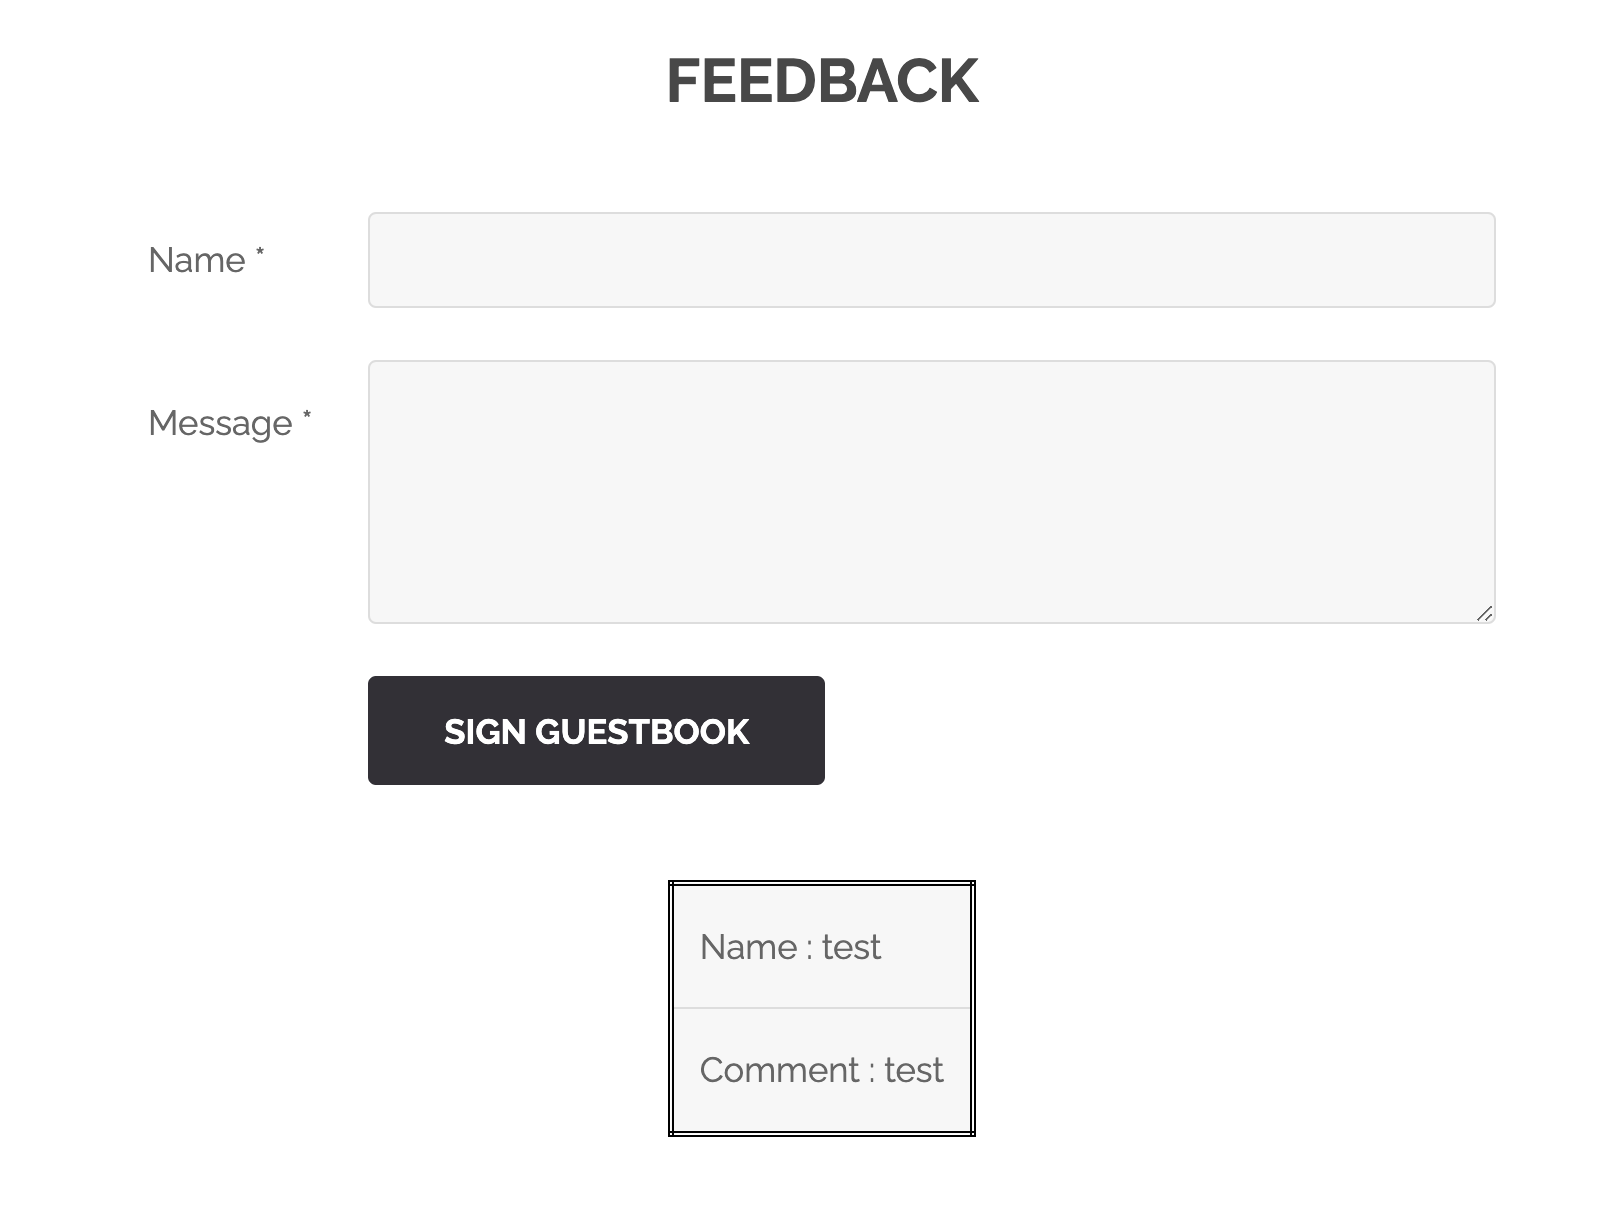
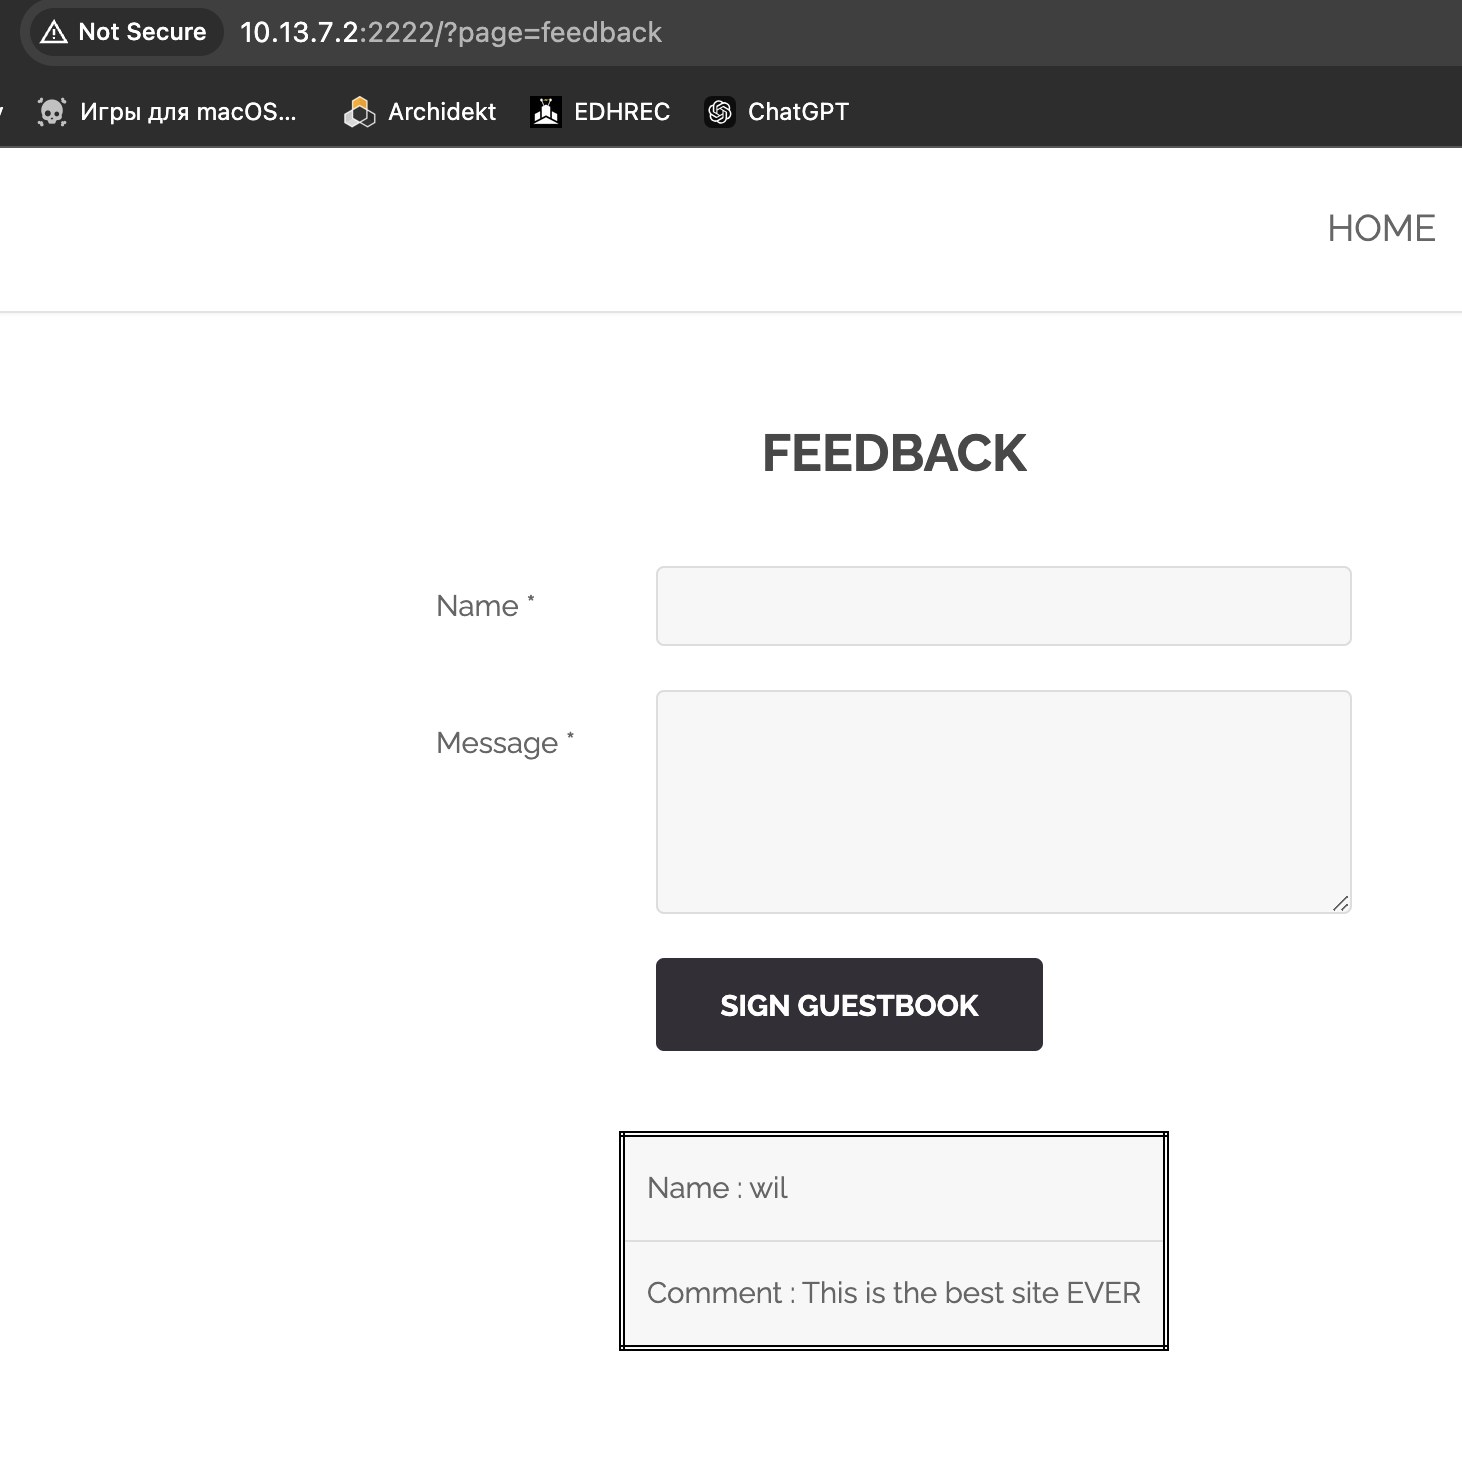
4 left to document

diff --git a/feedback_empty_form/Ressources/README.md b/feedback_empty_form/Ressources/README.md
@@ -1,7 +1,52 @@
 ## FEEDBACK EMPTY FORM
 
-At the bottom of the page there is a feedback button that redirects you to a feedback form where you can submit, well, your feedback.
+At the bottom of the webpage there is a big button with a text that says "LEAVE A FEEDBACK".</br>
+<img src="./imgs/1.png"></br>
+If you click there you will be moved to ["localhost:2222/?page=feedback](#localhost:2222/?page=feedback).</br>
+<img src="./imgs/2.png"></br>
+If you type in a <code>name</code> and a <code>message</code> and click on the button <i>"SIGN GUESTBOOK"</i> a commentary will be submitted to the feedback page.</br>
+<img src="./imgs/3.png"></br>
+This page contains multiple errors:</br>
+# 1'st: Message Empty Feedback
+<img src="./imgs/4.png"></br>
+When you submit the form the function validate_form() is called.</br>
+<img src="./imgs/5.png"></br>
+This is the function that's called. If you take a closer look you can see that there is a typo.</br>
+The message html input tag has the name attribute set to <code>mtxtMessage</code> and when the value that is checked in the code is <code>mtxMessage</code>. So it does no check if that value is empty and you can upload a feedback with no message.</br>
+<img src="./imgs/6.png"></br>
+
+# 2'st: checkForm???
+If you check the html code I showed you before you can see that the <code>btnSign</code> input calls the <code>checkForm()</code> function.</br>
+If you try to find that function you wont find it, and trust me, I've looked for it. But in case you dont I can prove it other way, listen, if just click the <i>"SIGN GUESTBOOK"</i> button and move to the console you will be able to see this:</br>
+<img src="./imgs/7.png"></br>
+
+# 3'rd: XSS
+
+## What is XSS
+[XSS](#https://owasp.org/www-community/attacks/xss/) stands for Cross Site Scripting. It consists on injecting malicious code in a website, usually in the form of a browser side script.</br>
 </br>
-<img src="./imgs/feedback_empty_form/1.png">
-</br>
-If you try to submit your feedback you can see that it gets uploaded and you can actually see it.
+This vulnerability is supossed to be about that, not about the other 2 points. What this vulnerability is supossed to be is one in wich you can script, the issue it has is that it's broken. So inputs like:</br>
+<table>
+<th>
+<code>a</code></br>
+</th>
+<th>
+<code>b</code></br>
+</th>
+<th>
+<code>script</code></br>
+</th>
+</table></br>
+give you the flag. But if you try submitting html code and inspect the request and see comment that's left in the page, you'll see that html/php code gets parsed.</br>
+My guess is that the word <i>"script"</i> serves as a <i>"generic script"</i> so you cannot break the page.</br>
+<img src="./imgs/8.png"></br>
+<img src="./imgs/holy_moly.gif"></br>
+
+# 4'rt: Extra
+
+You can also inspect element and change the html so you can submit a bigger comment or a bigger name. If you do you will see this: </br>
+<img src="./imgs/extra_1.png"></br>
+You change the <i><code>maxlenght</i></code> attribute on the <i><code>input</code></i> named <i><code>txtName</i></code> and the <i><code>maxlenght</i></code> in the <i><code>textarea</i></code> named <i><code>mtxtMessage</i></code>
+<img src="./imgs/extra_2.png"></br>
+
+

diff --git a/cookie_admin_true/Ressources/README.md b/cookie_admin_true/Ressources/README.md
@@ -1,9 +1,17 @@
-## COOKIE ADMIN TRUE
+# COOKIE ADMIN TRUE
 
-This one is also easy but not as easy as some others.
-Whenever you visit a page, data is stored about you, in order to access that data you need to inspect element and head over to the Applications window. Once there you need click on the cookies dropdown and select whatever is there.</br>
-//TODO explanation about cookies and which kind of cookie are we using.</br>
-<img src="./imgs/1.png">
-</br>
-Once you find the cookie you can see that it contains some values, the one we are fixing on is the "value" one. Inside it there is a random array of numbers and letters, usually when you find this that means that we are looking at some hashed data, so we have to convert it back to something we can actually read.</br>
-To achive this we first have to find which ones are the most used hashes and then use a converter. We first tried with a [MD5 converter](https://md5.gromweb.com/) and got it right, it displayed "false" so we wrote true and hashed it back with an [online hash webapp](https://www.md5hashgenerator.com/)
+
+## What is a cookie??
+
+<code>cookie :</code> cookies are small data packages created by a webserver and stored in the users device. They are usually used in order to store store <i>stateful</i> information about the user.</br></br>
+The easiest way of seeing this is with a shopping cart. You can go to amazon, without being logged in and add things to your shopping cart. If you were to leave the page and come back later your cart would still be containing the items you added.</br></br>
+
+## What about this page's cookies
+
+If you were to inspect this page's cookies you would see that there is only one named <code>I_am_admin</code> and its value is a random string.</br>
+<img src="./imgs/1.png"></br>
+When you see a random string like that the first thing that crosses your mind is that it has to be a encrypted string that contains something, so the next step should be decrypting the string.</br>
+The usual suspects tend to be MD5, SHA1, SHA256...</br>
+If we use an [MD5 converter](#https://md5.gromweb.com/) we can see that the value of the cookie is actually the string "false" encrypted. So if we[encrypt the string "true" with MD5](#https://10015.io/tools/md5-encrypt-decrypt) and refresh we should get the cookie.</br>
+<img src="./imgs/2.png"></br>
+<img src="./imgs/3.png"></br>

diff --git a/hidden_routes/Ressource/README.md b/hidden_routes/Ressource/README.md
@@ -1,11 +1,24 @@
-## HIDDEN ROUTES
+# HIDDEN ROUTES
 
-One of the first things you try when inspecting this project is the robots.txt route.
-Upon closer inspection there are 2 routes:
-</br>
-<img src="./imgs/1.png">
-If you try to access the .hidden directory you will find this:
-<img src="./imgs/2.png">
-If you keep diging you will find that every random named folder contains more random named folder that lead up to a README file. When I found this I thought of making a python script that traverses every folder and tries to see if a README contains the flag.
-If you let the script run for a couple of minits you will end up with the flag
-<img src="./imgs/3.png">
+Usually one of the first things people do when trying to break into a page is go to the route /robots.txt.</br>
+
+## What is the robots.txt route???
+
+The [robots.txt](#https://en.wikipedia.org/wiki/Robots.txt) file is a filename implemented for the Robots Exclusion Protocol, a standard used by websites to indicate web crawlers and other web robots which parts of the website are they allowed to visit.</br>
+That's why its usefull, because it gives you a list of routes.</br>
+
+## Our robots.txt
+
+If you take a look at this page's robots.txt you will find this:</br>
+<img src="./imgs/1.png"></br>
+You may think that the routes <code>/whatever</code> and <code>.hidden</code> are Disallowed and you cannot enter them. But the Disallow directive is purely advisory, and so are others.</br>
+But you might think otherwise if your VM's ports are forwarded, since the URL <code>10.13.8.6:222/whatever</code> or <code>10.13.8.6:222/.hidden</code> redirect you to <code>10.13.8.6/.hidden/</code> and <code>10.13.8/whatever/</code> respectivily, and you wont be able to see the page.</br>
+
+
+## .hidden directory
+
+If you go to <code>10.13.8.6:2222/.hidden/</code> you will find this:</br>
+<img src="./imgs/2.png"></br>
+If you move across directories you will end up in a directory that just has a README.md inside and a french phrase.</br>
+I made a python script to search each directory for a README.md file and then see if there is a flag inside. If we let it run for a while we will get this result:</br>
+<img src="./imgs/3.png"></br>

diff --git a/htpasswd/Ressources/README.md b/htpasswd/Ressources/README.md
@@ -9,5 +9,25 @@ https://md5.gromweb.com/?string=qwerty123@
 
[1 lines of base64/hex data omitted]
 
+## HTPASSWD
+
+You can apply the same start I used in the <a href="../../hidden_routes/Ressource/README.md">hidden_routes flag</a>.</br>
+</br>
+Once you go to the URL 10.13.8.6:2222/whatever/ you will find that that directory's list contains just the <code>htpasswd</code> file.</br>
+<img src="./imgs/1.png"></br>
+That files contents:</br>
+<img src="./imgs/2.png"></br>
+It's contents are clearly the root user and it's hashed password. If decrypting it's password you will get the username/password pair.</br>
+I used these 2 tools to decrypt the password [1](#https://10015.io/tools/md5-encrypt-decrypt) & [2](#https://md5.gromweb.com/?string=qwerty123@). The password is <code>qwerty123@</code> encrypted with MD5</br>
+</br>
+Once you have this data you need a place to try to log into. To find the route I used the program feroxbuster, which is a usefull program a colleague showed me. If you input this line: <code>feroxbuster -u http://10.13.8.6:2222/whatever -w directory-list-medium.txt</code> you get this output:</br>
+<img src="./imgs/3.png"></br>
+</br>
+Out of those the route admin is the one that draws the most attention, and If you go there you will find this:</br>
+<img src="./imgs/4.png"></br>
+So you just input the user and the password and that should get you the flag.</br>
+<img src="./imgs/5.png"></br>
+
+
 [directory-list-medium.txt](https://github.com/danielmiessler/SecLists/blob/master/Discovery/Web-Content/directory-list-2.3-medium.txt)
 Shoutout to [Dave, the only one](https://github.com/Z43L) for showing me so many tools and specially feroxbuster

diff --git a/README.md b/README.md
@@ -1,10 +1,20 @@
 ## Found Exploits/Vulnerabilities
 
+1. [Cookie_admin_true](/cookie_admin_true/Ressources/README.md)
+2. [Feedback_empty_form](/feedback_empty_form/Ressources/README.md)
 1. [Survey_form_select](/cookie_admin_true/Ressources/README.md)
 2. [RecoverPassword_from_input](/recoverPassword_form_input/Ressources/README.md)
-3. [Cookie_admin_true](/cookie_admin_true/Ressources/README.md)
-4. [Feedback_empty_form](/feedback_empty_form/Ressources/README.md)
 
 ## TODO
 
-finish the readme.md's and move every file from assets to their own directory to avoid having that many directories
+- Document cookie_admin_true DONE
+- Document feedback_empty_form DONE
+- Deocument hidden_routes DONE
+- Document htpasswd DONE
+- Document http_header_referer DONE
+- Document login_brute_force
+- Document path_traversal DONE
+- Document recoverPassword_form_input
+- Document survery_form_select
+- Document upload_image_php DONE
+- Document xss_src_query

diff --git a/http_header_referer/Ressources/README.md b/http_header_referer/Ressources/README.md
@@ -1,8 +1,7 @@
 ## HTTP HEADER REFERER
 
-Upon inspecting the footer's "© BornToSec" logo you can go to a secret webpage. The url="http://10.13.8.6:2222/index.php?page=b7e44c7a40c5f80139f0a50f3650fb2bd8d00b0d24667c4c2ca32c88e13b758f"
-<img src="./imgs/1.png"></br>
-</br>
+Upon inspecting the footer's "© BornToSec" logo you can go to a secret webpage. The <code>url="http://10.13.8.6:2222/index.php?page=b7e44c7a40c5f80139f0a50f3650fb2bd8d00b0d24667c4c2ca32c88e13b758f"</code></br>
+<img src="./imgs/1.png"></br></br>
 When you inspect the webpage there is are hidden comments. There is one that says:</br> "You must come from : https://www.nsa.gov/"
 <img src="./imgs/2.png"></br>
 When you see this the first thing you think of is that there has to be an http header that tells the server where you come from. [Referer Header](#https://developer.mozilla.org/en-US/docs/Web/HTTP/Headers/Referer)</br>

diff --git a/login_brute_force/Ressources/README.md b/login_brute_force/Ressources/README.md
@@ -1,4 +1,5 @@
-##LOGIN BRUTE FORCE
+## LOGIN BRUTE FORCE
+
 
 
 ## To-do
